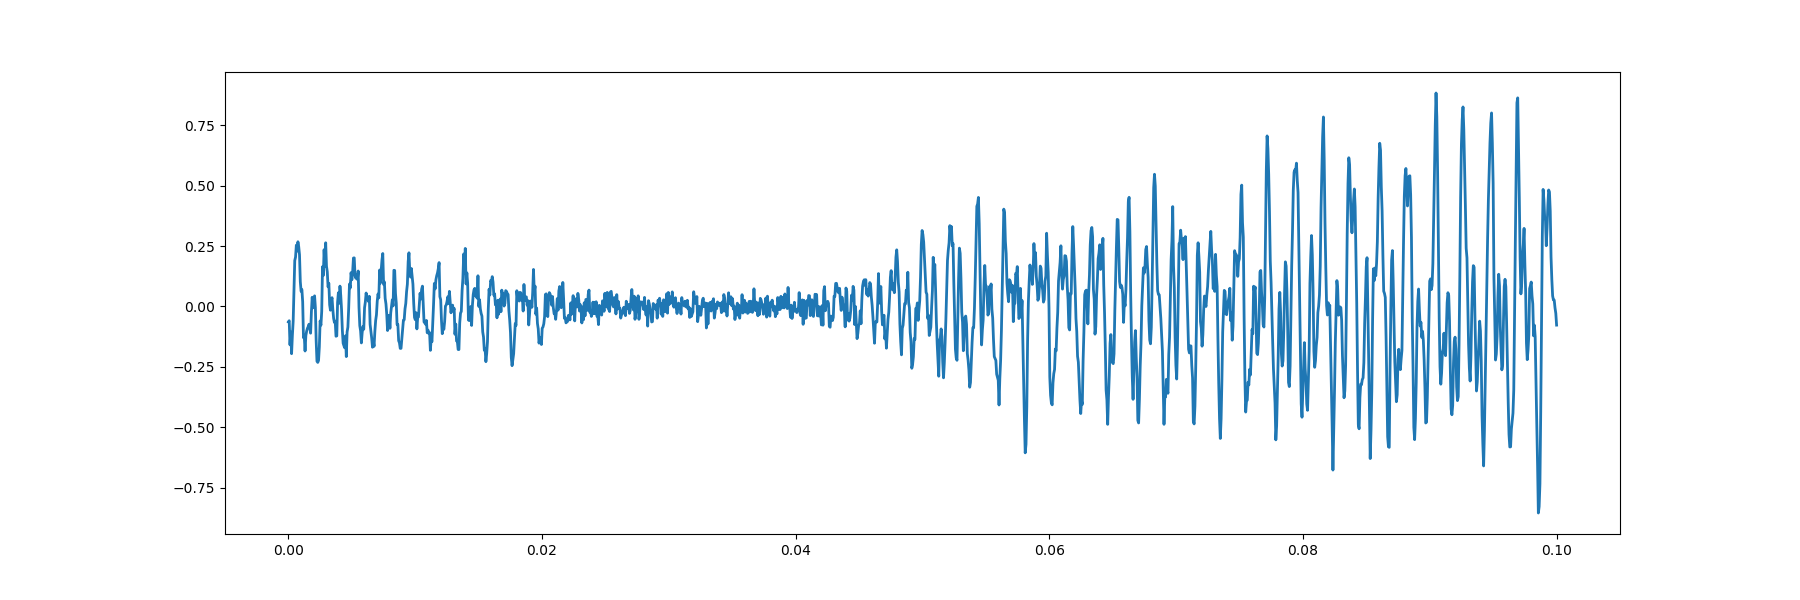
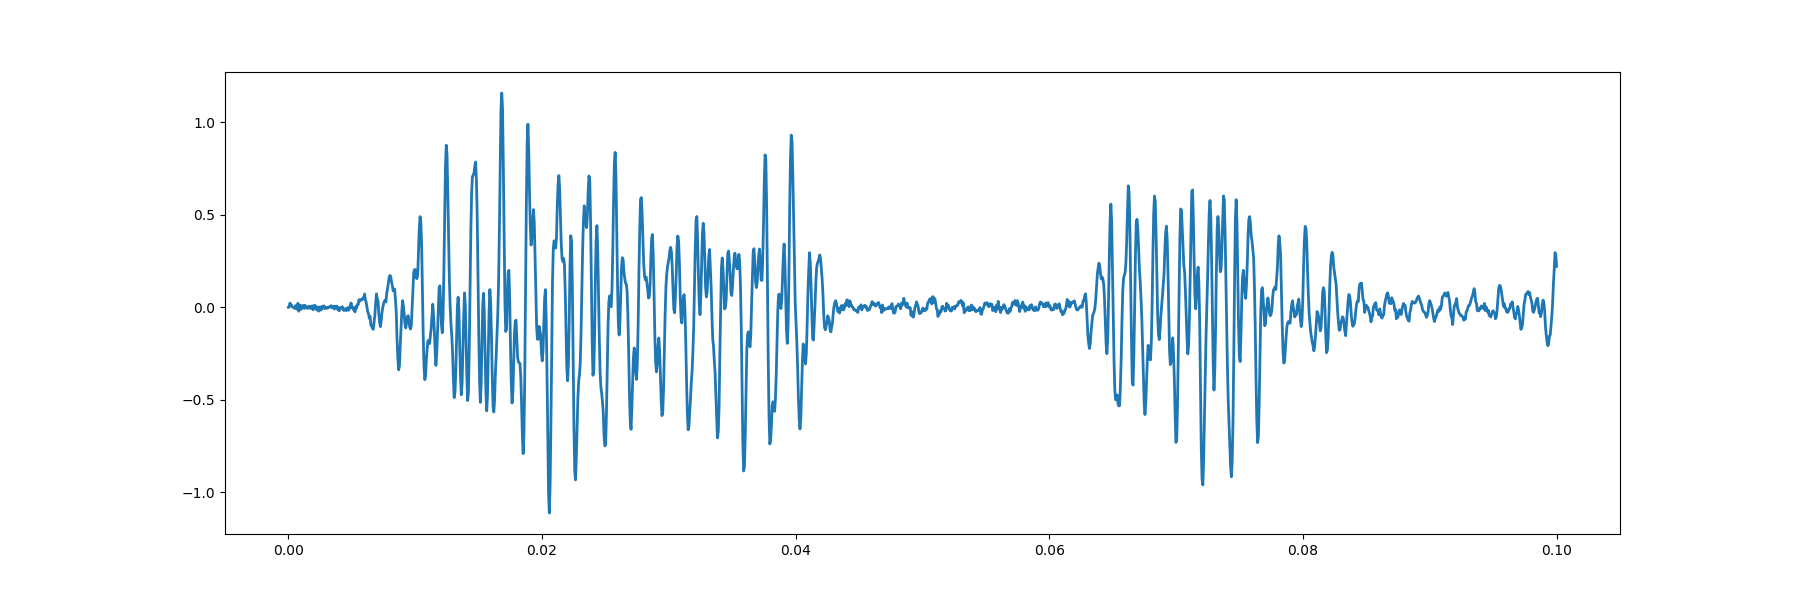
introduce constrains values of variational means.

diff --git a/notebooks/demo_inharmonic_toy.py b/notebooks/demo_inharmonic_toy.py
@@ -20,29 +20,29 @@ gpitch.amtgp.init_settings(visible_device = '0', interactive=True) #  configure 
 
 Nc = 4 #  set kernel params
 var =  np.ones((Nc, 1))
-var = np.asarray([.5, .3, .4, .1])
+var = np.asarray([.5, .3, .2, .1])
+var *= 1./(4.*var.sum())
 beta = 0.02
 f0 = 440.00
 leng = np.ones((Nc, 1))
-leng = np.asarray([.4, .3, .2, .1])
+leng = np.asarray([1., 1., 1., 1.])
 
 kern_f = gpitch.kernels.Inharmonic(input_dim=1, lengthscales=leng, variances=var, beta=beta, f0=f0)
-kern_g = gpflow.kernels.Matern32(input_dim=1, lengthscales=0.025, variance=10.)
+kern_g = gpflow.kernels.Matern32(input_dim=1, lengthscales=0.01, variance=16.)
 
-np.random.seed(1) # generate synthetic data
-noise_var = 1e-3
+np.random.seed() # generate synthetic data
+noise_var = 1e-4
 N = 1600
 x = np.linspace(0, 0.1, N).reshape(-1,1)
 Kf = kern_f.compute_K_symm(x)
 Kg = kern_g.compute_K_symm(x)
 f = np.random.multivariate_normal(np.zeros(N), Kf, 1).reshape(-1, 1)
-f /= np.max(np.abs(f))
 g = np.random.multivariate_normal(np.zeros(N), Kg, 1).reshape(-1, 1)
 mean = logistic(g) * f
 y = mean + np.sqrt(noise_var)*np.random.randn(*mean.shape)
 
 #  set model
-np.random.seed() # initialize randomly params
+np.random.seed(29) # initialize randomly params
 Nc = 4
 init_leng_f =1.*np.random.rand(Nc, 1)
 init_var_f = 1.*np.random.rand(Nc, 1)
@@ -53,13 +53,13 @@ init_var_g = 10.*np.random.rand()
 kern1 = gpitch.kernels.Inharmonic(input_dim=1, lengthscales=init_leng_f, variances=init_var_f, beta=init_beta, f0=init_f0)
 kern2 = gpflow.kernels.Matern32(input_dim=1, lengthscales=0.05, variance=10.)
 m = gpitch.modgp.ModGP(x, y, kern_f, kern_g, x[::8].copy())
-m.q_mu2.transform = gpflow.transforms.Logistic(a=-10.0, b=10.0)
-m.q_mu1.transform = gpflow.transforms.Logistic(a=-1.0, b=1.0)
+m.q_mu1.transform = gpflow.transforms.Logistic(a=-1., b=1.)
+m.q_mu2.transform = gpflow.transforms.Logistic(a=-8.0, b=8.0)
 m.kern1.fixed = True
 m.kern2.fixed = True
 m.likelihood.noise_var = noise_var
 m.likelihood.noise_var.fixed = True
-m.optimize(disp=1, maxiter=400)
+m.optimize(disp=1, maxiter=500)
 
 mu, var = m.predict_f(x)
 plt.figure()
@@ -87,7 +87,6 @@ plt.title('g functions')
 plt.plot(x, mu, 'C0')
 plt.plot(x, g, 'g', lw=2)
 plt.legend(['prediction', 'actual functions'])
-plt.twinx()
 plt.savefig('../figures/demo_inharmonic_toy_latent_functions_g.png')
 
 plt.figure()
@@ -104,6 +103,11 @@ plt.xlim([-1, 1])
 plt.tight_layout()
 plt.savefig('../figures/demo_inharmonic_toy.png')
 #print kern.compute_Kdiag(x)
+
+
+
+
+
 
 
 
